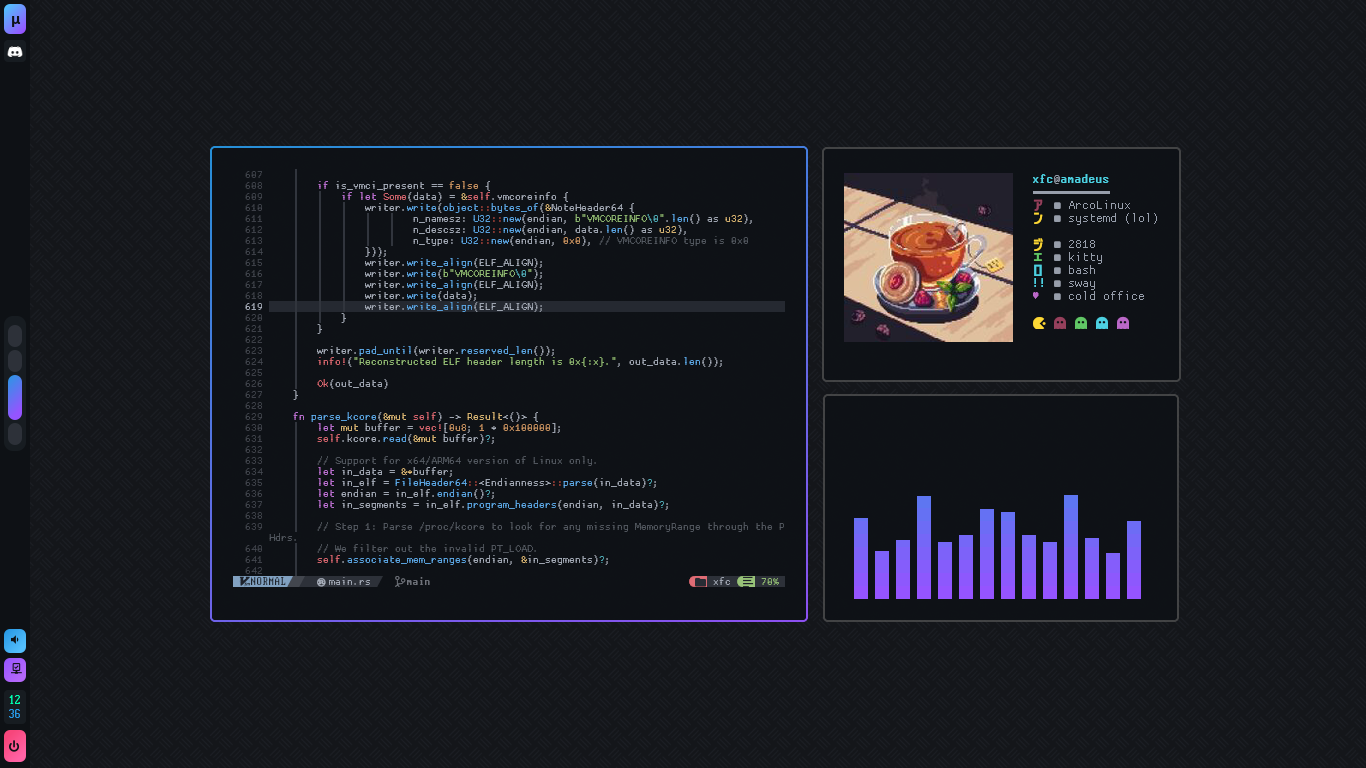
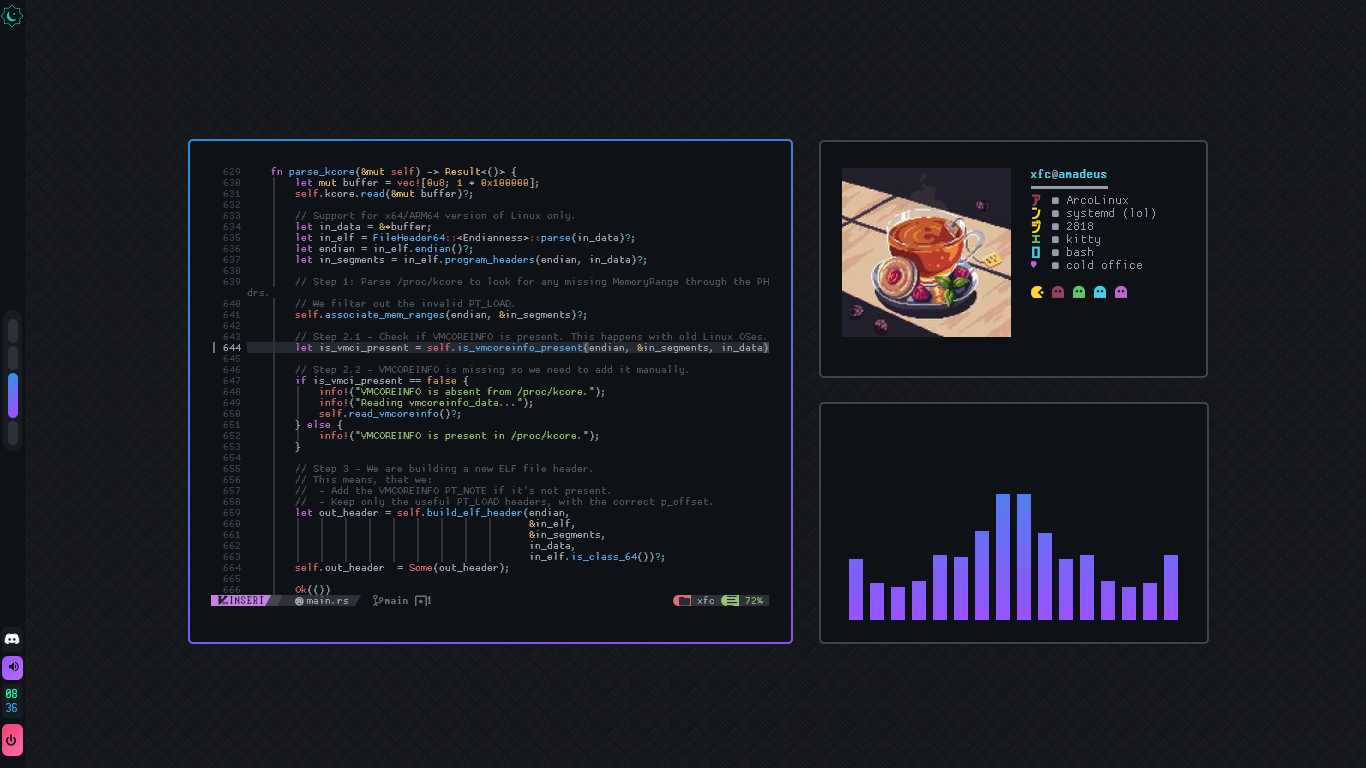
updated waybar & added workspace scrolling

Changed region(s): [[0.1537, 0.1875, 0.8917, 0.8438], [0.0, 0.8125, 0.0307, 1.0], [0.0, 0.0, 0.0307, 0.0938]]

diff --git a/waybar/style.css b/waybar/style.css
@@ -5,28 +5,41 @@
   font-size: 13;
   font-weight: 100;
   min-width: 10px;
-  padding: 1px 1px 1px 1px
+  padding: 1px 0px 1px 0px;
+  margin: 0px 0px 3px 0px;
 }
 
 window#waybar {
   background-color: rgba(14, 17, 21, 1);
   color: #b3b7bd;
-  min-width: 5px;
+  min-width: 30px;
 }
 
-#custom-launcher {
-  background: linear-gradient(135deg, #53befc 10%, #9554ff 90%);
-  color: #0e1115;
-  margin: 2px 2px 4px 2px;
+#image-module {
+  background-color: #0e1115;
+/*  margin: 2px 2px 4px 2px;
   padding: 5px 0px 5px 0px;
-  border-radius: 6px;
-  font-size: 14px;
-  font-weight: bold;
+  border-radius: 6px;*/
+/*  font-size: 14px; */
+/*  font-weight: bold; */
+}
+
+#image-player {
+  background-image: url("/home/xfc/Pictures/wv.png");
+
+  background-size: 100% auto;
+  background-repeat: no-repeat;
+
+  background-position: center;
+  margin: 0px 3px 0px 3px;
+  padding: 6px 2.5px 6px 2.5px;
+  border-radius: 8px;
+  font-size: 5;
 }
 
 #workspaces {
   background-color: #171c21;
-  margin: 0px 2px 0px 2px;
+  margin: 0px 3px 0px 3px;
   padding: 6px 2.5px 6px 2.5px;
   border-radius: 9px;
 }
@@ -34,10 +47,10 @@ window#waybar {
 #workspaces button {
   background-color: #2d3139;
   color: #b3b7bd;
-  margin: 3px 2px 0px 2px;
-  padding: 0px 0px 0px 0px;
+  margin: 3px 2px 0px 3px;
+  padding: 1px 0px 1px 0px;
   border-radius: 8px;
-  font-size: 1px;
+  font-size: 0px;
 }
 
 #workspaces button.focused {
@@ -64,14 +77,14 @@ window#waybar {
   border-radius: 4px;
 }
 
-#pulseaudio {
+/*#pulseaudio {
   background: linear-gradient(135deg, #2798e4 5%, #53befc 80%);
   color: #0e1115;
   margin: 2px 2px 3 2px;
   padding: 2px 0px 5px 0px;
   border-radius: 6px;
   font-size: 13px;
-}
+}*/
 
 #backlight {
   background: linear-gradient(90deg, #ff8a30 0%, #FFC457 80%);
@@ -100,10 +113,10 @@ window#waybar {
   font-size: 20px;
 }
 
-#network {
+#pulseaudio {
   background: linear-gradient(135deg, #9554ff 0%, #B467F9 80%);
   color: #0e1115;
-  margin: 2px 2px 6 2px;
+  margin: 2px 2px 2px 2px;
   padding: 2px 0px 5px 0px;
   border-radius: 6px;
   font-size: 13px;
